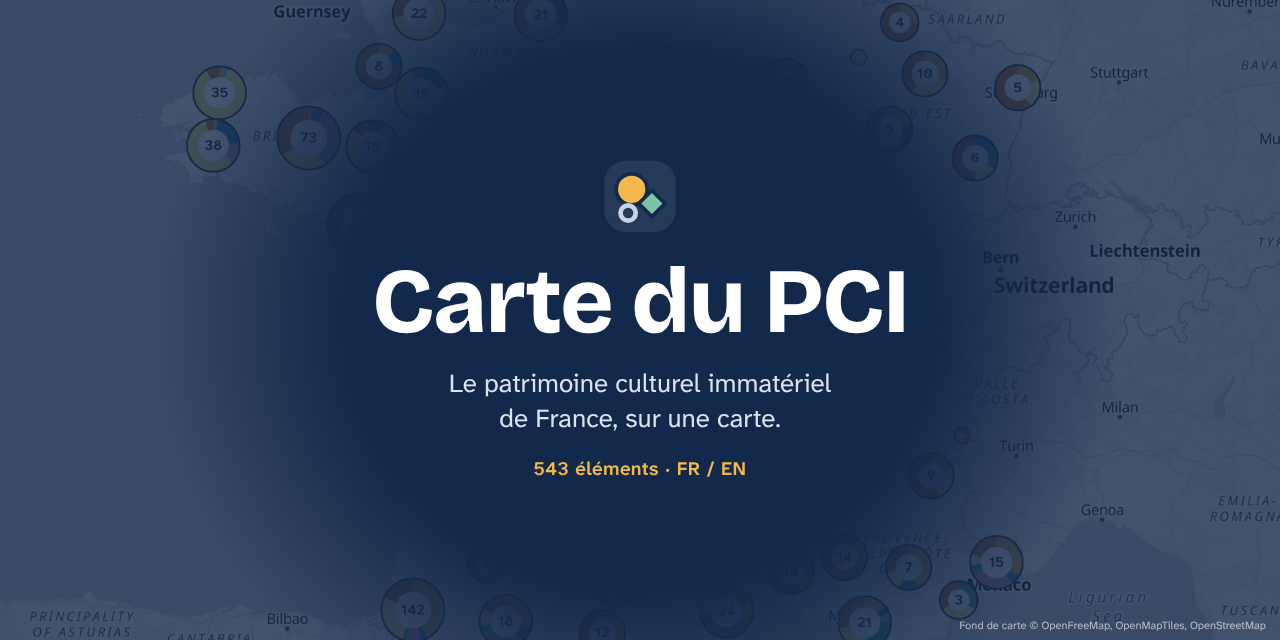
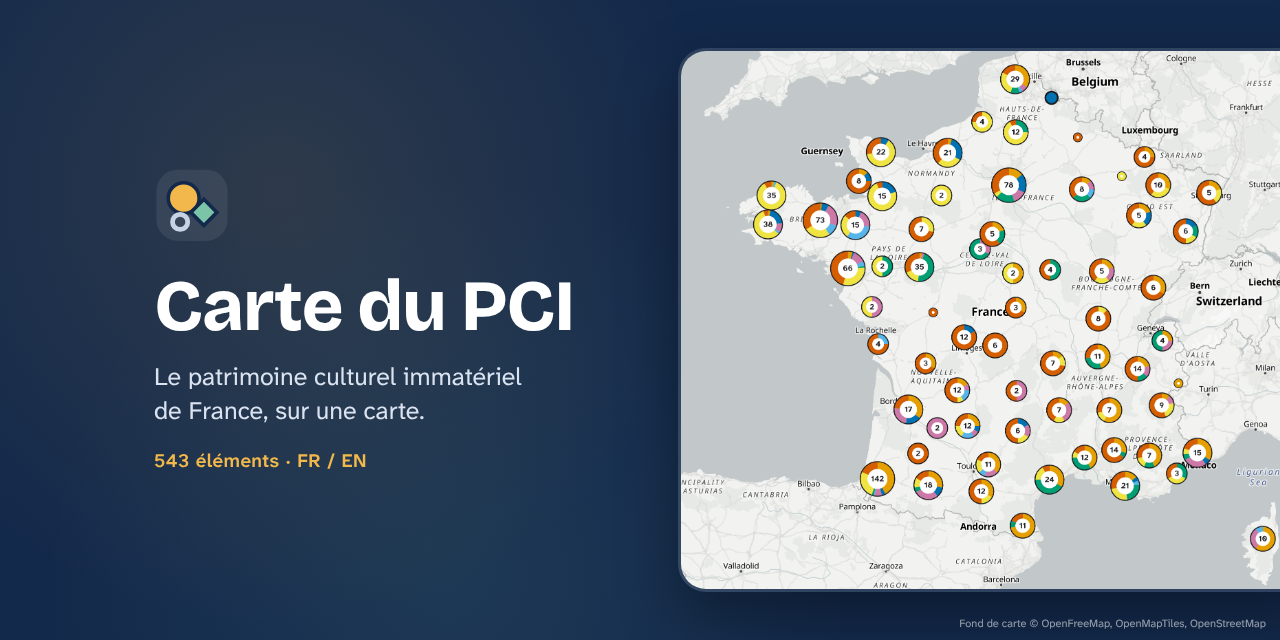
Thumbnail: text left, map right; text starts further in
Claude-Session: https://claude.ai/code/session_01AqnAMrBoKunjqUn9FTHm4o

diff --git a/docs/decisions.md b/docs/decisions.md
@@ -140,5 +140,5 @@ Format: decision. Why. Alternative rejected.
 
 ## Project thumbnail (Paul, 2026-10-10)
 
-- One thumbnail, made from the real map and the brand: `web/public/og-image.png` (1200x630, Open Graph and Twitter tags in `index.html`, so a shared link shows it) and `docs/social-preview.png` (1280x640, top of the README, for the GitHub repository card and the portfolio). `web/scripts/thumbnail.mjs` regenerates both from the running preview. The layout is centred and sparse (logo, title, one line, element count, the map faded behind) because LinkedIn crops the sides of link images in some places; the count comes from the built data and the fonts are the self-hosted ones. The map tiles are credited on the image (OpenFreeMap, OpenMapTiles, OpenStreetMap).
+- One thumbnail, made from the real map and the brand: `web/public/og-image.png` (1200x630, Open Graph and Twitter tags in `index.html`, so a shared link shows it) and `docs/social-preview.png` (1280x640, top of the README, for the GitHub repository card and the portfolio). `web/scripts/thumbnail.mjs` regenerates both from the running preview. The layout is sparse (logo, title, one line, element count) with the text starting well inside the frame and the map on the right, because LinkedIn crops the sides of link images in some places; the count comes from the built data and the fonts are the self-hosted ones. The map tiles are credited on the image (OpenFreeMap, OpenMapTiles, OpenStreetMap).
 - The Open Graph image URL is absolute (link scrapers need one), so it names the GitHub Pages address.
